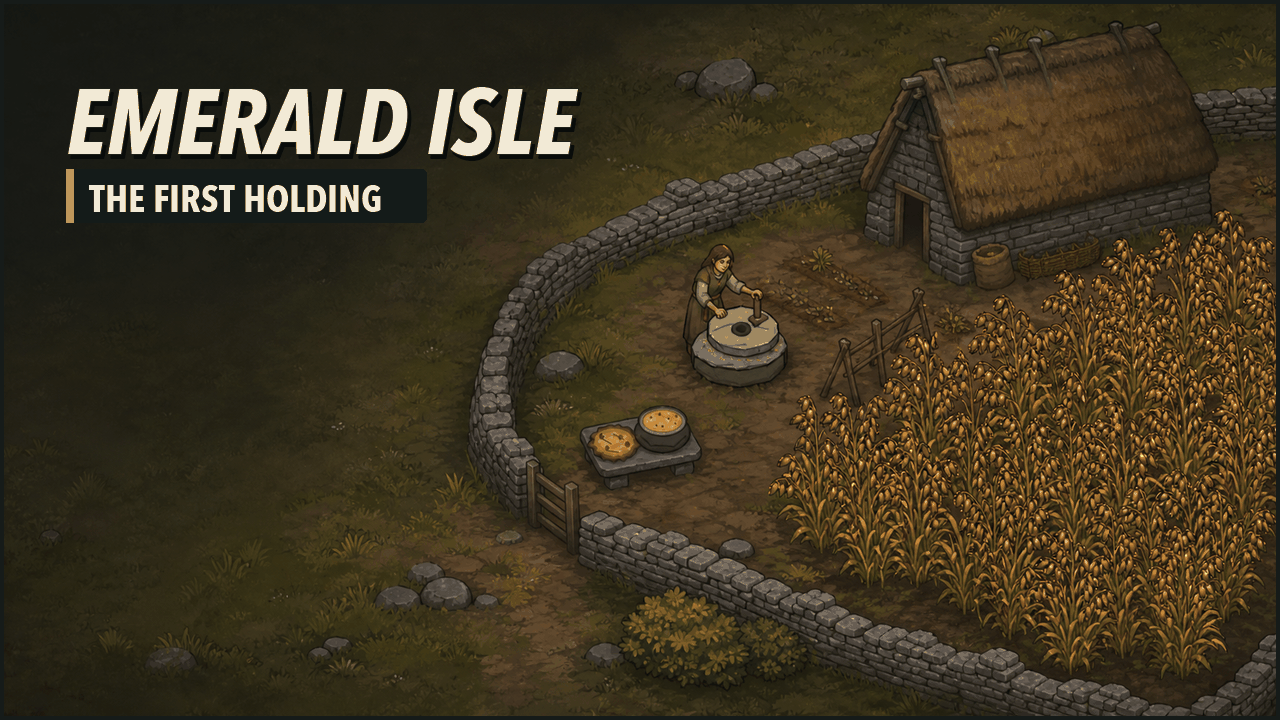
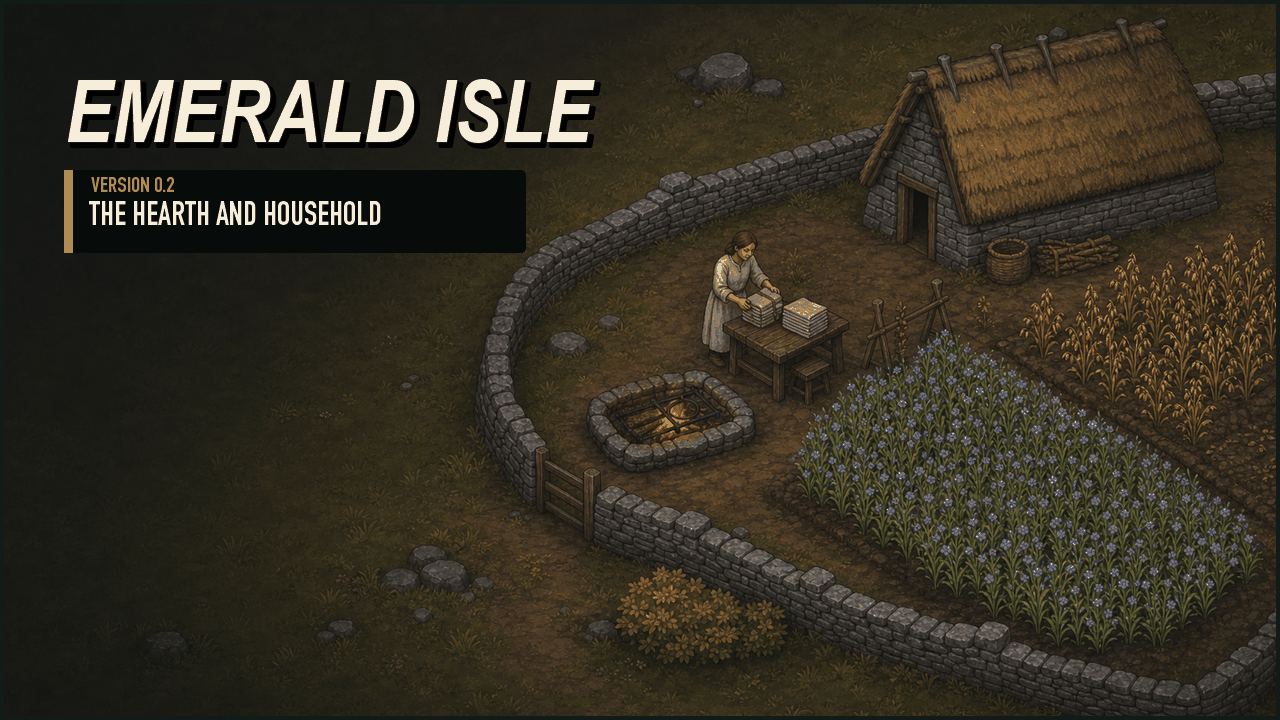
Update v0.2 Workshop preview artwork

diff --git a/docs/art/assets/workshop-preview-v0.2.md b/docs/art/assets/workshop-preview-v0.2.md
@@ -1,0 +1,62 @@
+# Version 0.2 Steam Workshop Preview Asset Record
+
+**Status:** Candidate prepared; maintainer art review and Steam publication pending<br>
+**Release:** v0.2.0 - The Hearth and Household<br>
+**Production date:** 2026-07-13<br>
+**Human acceptance owner:** Patrick Mee
+
+## Art Brief
+
+The Version 0.2 preview preserves the established wide isometric holding,
+dry-stone construction, thatched cottage, grounded material palette, and quiet
+left-side title field. The revised household depicts the release's flax and linen
+work beside oats, with a low permanent stone-lined hearth as the warm courtyard
+focal point. The subtitle changes from `The First Holding` to
+`The Hearth and Household`, with Version 0.2 identified separately.
+
+The image must remain legible at Steam thumbnail size without relying on generic
+green identity, decorative Celtic shorthand, copied RimWorld runtime art, or
+fantasy spectacle.
+
+## Provenance and License
+
+OpenAI image generation created the revised original 16:9 farmstead illustration
+under project art direction. Inputs were limited to Emerald Isle's project-owned
+Version 0.1 preview and approved central-hearth, mature-flax, folded-linen, and
+linen-tunic exports. No third-party images or copied game textures were used.
+
+Codex deterministically fit the generated illustration to 1280x720, added the
+exact title and release typography with locally installed fonts, applied a
+restrained title-field treatment and border, and palette-optimized the PNG below
+Steam Workshop's one-megabyte preview limit. The generated source and local
+render helper are ignored production intermediates rather than runtime
+dependencies or committed source art.
+
+The preview is a creative asset governed by
+[`CREATIVE_ASSETS_LICENSE.md`](../../../CREATIVE_ASSETS_LICENSE.md), not the MIT
+source-code license.
+
+## Runtime Export
+
+| Asset | Package path | Dimensions | Size | SHA-256 |
+|---|---|---:|---:|---|
[1 lines of base64/hex data omitted]
+
+## Acceptance Targets
+
+- The exact text reads `EMERALD ISLE`, `VERSION 0.2`, and
+  `THE HEARTH AND HOUSEHOLD`, with no generated pseudo-text.
+- Full-size and 400x225 thumbnail checks preserve title legibility and keep the
+  flax plot, oat plot, linen worker, dry-stone walls, cottage, and hearth distinct.
+- The hearth reads as a permanent stone-lined household fixture rather than an
+  oversized bonfire or a decorative fantasy object.
+- The staging and release-safety paths include the replacement at the existing
+  `About/Preview.png` compatibility path and preserve Workshop ID `3763433723`.
+- The public Workshop page must show the replacement before this record is marked
+  published; candidate creation alone is not publication evidence.
+
+## Review Disposition
+
+Automated export inspection confirms the candidate dimensions, indexed PNG
+format, file-size ceiling, and recorded SHA-256. Maintainer visual acceptance and
+public Steam verification remain open.

diff --git a/docs/release/steam-workshop-listing.md b/docs/release/steam-workshop-listing.md
@@ -1,7 +1,7 @@
 # Steam Workshop Listing
 
-**Status:** Version 0.2 package uploaded; description and change note prepared for
-manual publication and public verification<br>
+**Status:** Version 0.2 package uploaded; description, change note, and replacement
+preview prepared for manual publication and public verification<br>
 **Workshop item:** [Emerald Isle 3763433723](https://steamcommunity.com/sharedfiles/filedetails/?id=3763433723)<br>
 **Current release:** `v0.2.0` - The Hearth and Household<br>
 **Publication owner:** Patrick Mee
@@ -70,8 +70,11 @@ Steam published-file API that:
 - the description contains `Version 0.2 - The Hearth and Household`;
 - the description names flax, linen, the linen tunic, and central hearth;
 - the Version 0.2 change note is visible;
+- the preview reads `VERSION 0.2` and `THE HEARTH AND HOUSEHOLD` and depicts the
+  flax, linen, oats, and central-hearth household scene;
 - the item still resolves to Workshop ID `3763433723`.
 
-The current `About/Preview.png` remains the approved Version 0.1 image and still
-contains the subtitle `The First Holding`. Updating that image is a separate
-Version 0.2 presentation task.
+The replacement `About/Preview.png` is recorded in the
+[Version 0.2 preview asset record](../art/assets/workshop-preview-v0.2.md). It
+remains a candidate until maintainer visual acceptance and the public Workshop
+page both confirm the replacement.

diff --git a/docs/art/assets/workshop-preview-v0.1.md b/docs/art/assets/workshop-preview-v0.1.md
@@ -36,10 +36,10 @@ source-code license.
 - The existing GitHub v0.1.0 archive remains immutable. The Workshop package adds
   only this listing preview and does not change gameplay or public identifiers.
 
-## Version 0.2 Carry-Forward
+## Version 0.2 Supersession
 
-Version 0.2 retains this preview unchanged. It still carries the subtitle
-`The First Holding` and depicts only the Version 0.1 holding, so it is not a
-complete presentation of the flax, linen tunic, or central hearth added in
-`v0.2.0`. Replace it through a separately reviewed Version 0.2 preview-art task;
-do not silently relabel or regenerate the approved Version 0.1 source record.
+Version 0.2 was initially uploaded with this preview unchanged. It still carries
+the subtitle `The First Holding` and depicts only the Version 0.1 holding. The
+separately recorded [Version 0.2 preview](workshop-preview-v0.2.md) supersedes it
+for subsequent Workshop package updates without changing this historical record
+or the immutable GitHub `v0.1.0` archive.

diff --git a/docs/release/v0.2.0.md b/docs/release/v0.2.0.md
@@ -50,9 +50,10 @@ Subscribe on the Steam Workshop for automatic installation, or install manually:
 The developer-testing package is separate and must not be installed for normal
 play or included in a public release archive.
 
-The exact Version 0.2 Workshop description and change note are maintained in the
-[Steam Workshop listing record](steam-workshop-listing.md). Steam listing text is
-managed separately from the in-package `About/About.xml` description.
+The exact Version 0.2 Workshop description, change note, and public-preview checks
+are maintained in the [Steam Workshop listing record](steam-workshop-listing.md).
+Steam listing text is managed separately from the in-package `About/About.xml`
+description.
 
 ## Upgrade and Existing Saves
 

diff --git a/docs/README.md b/docs/README.md
@@ -65,6 +65,8 @@ amending the higher-authority one.
   compatibility, removal, known-issue, licensing, and rollback guidance
 - `release/steam-workshop-listing.md`: canonical Steam Workshop description,
   current-release change note, and public listing verification checks
+- `art/assets/workshop-preview-v0.2.md`: Version 0.2 Workshop preview art brief,
+  provenance, export contract, and acceptance status
 - `localization/cultural-review-register.md`: batched cultural and Irish-language review register
 - `qa/version-0.1-release-test-matrix.md`: Version 0.1 exact-artifact release test matrix
 - `qa/`: automated, integration, and playtest strategy